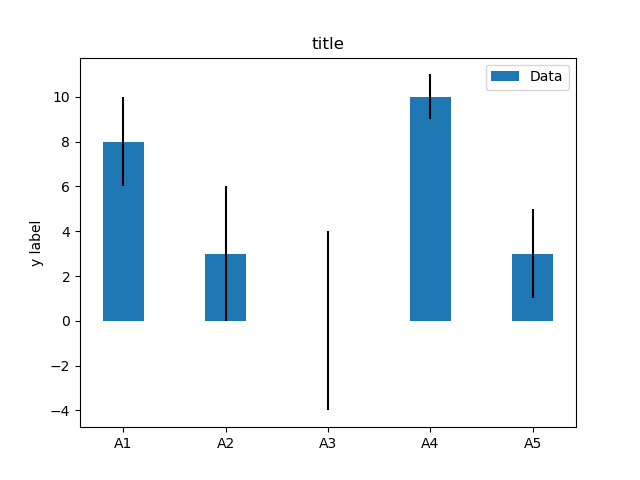
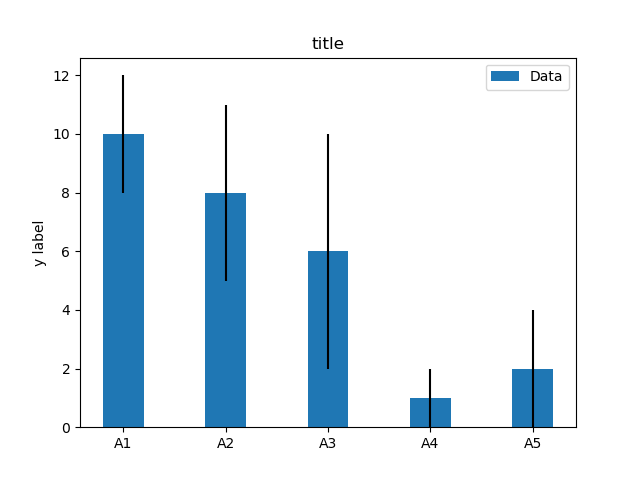
first commit

diff --git a/example.py b/example.py
@@ -2,7 +2,7 @@ import numpy as np
 import matplotlib.pyplot as plt
 
 labels = ['A1', 'A2', 'A3', 'A4', 'A5']
-m_means = [8,3,0,10,3]
+m_means = [10,8,6,1,2]
 m_std = [2, 3, 4, 1, 2]
 width = 0.40       # the width of the bars
 

diff --git a/README.md b/README.md
@@ -1,4 +1,4 @@
-# Matplotlib no 251 
+# Matplotlib no 252 
 
 python example
 
